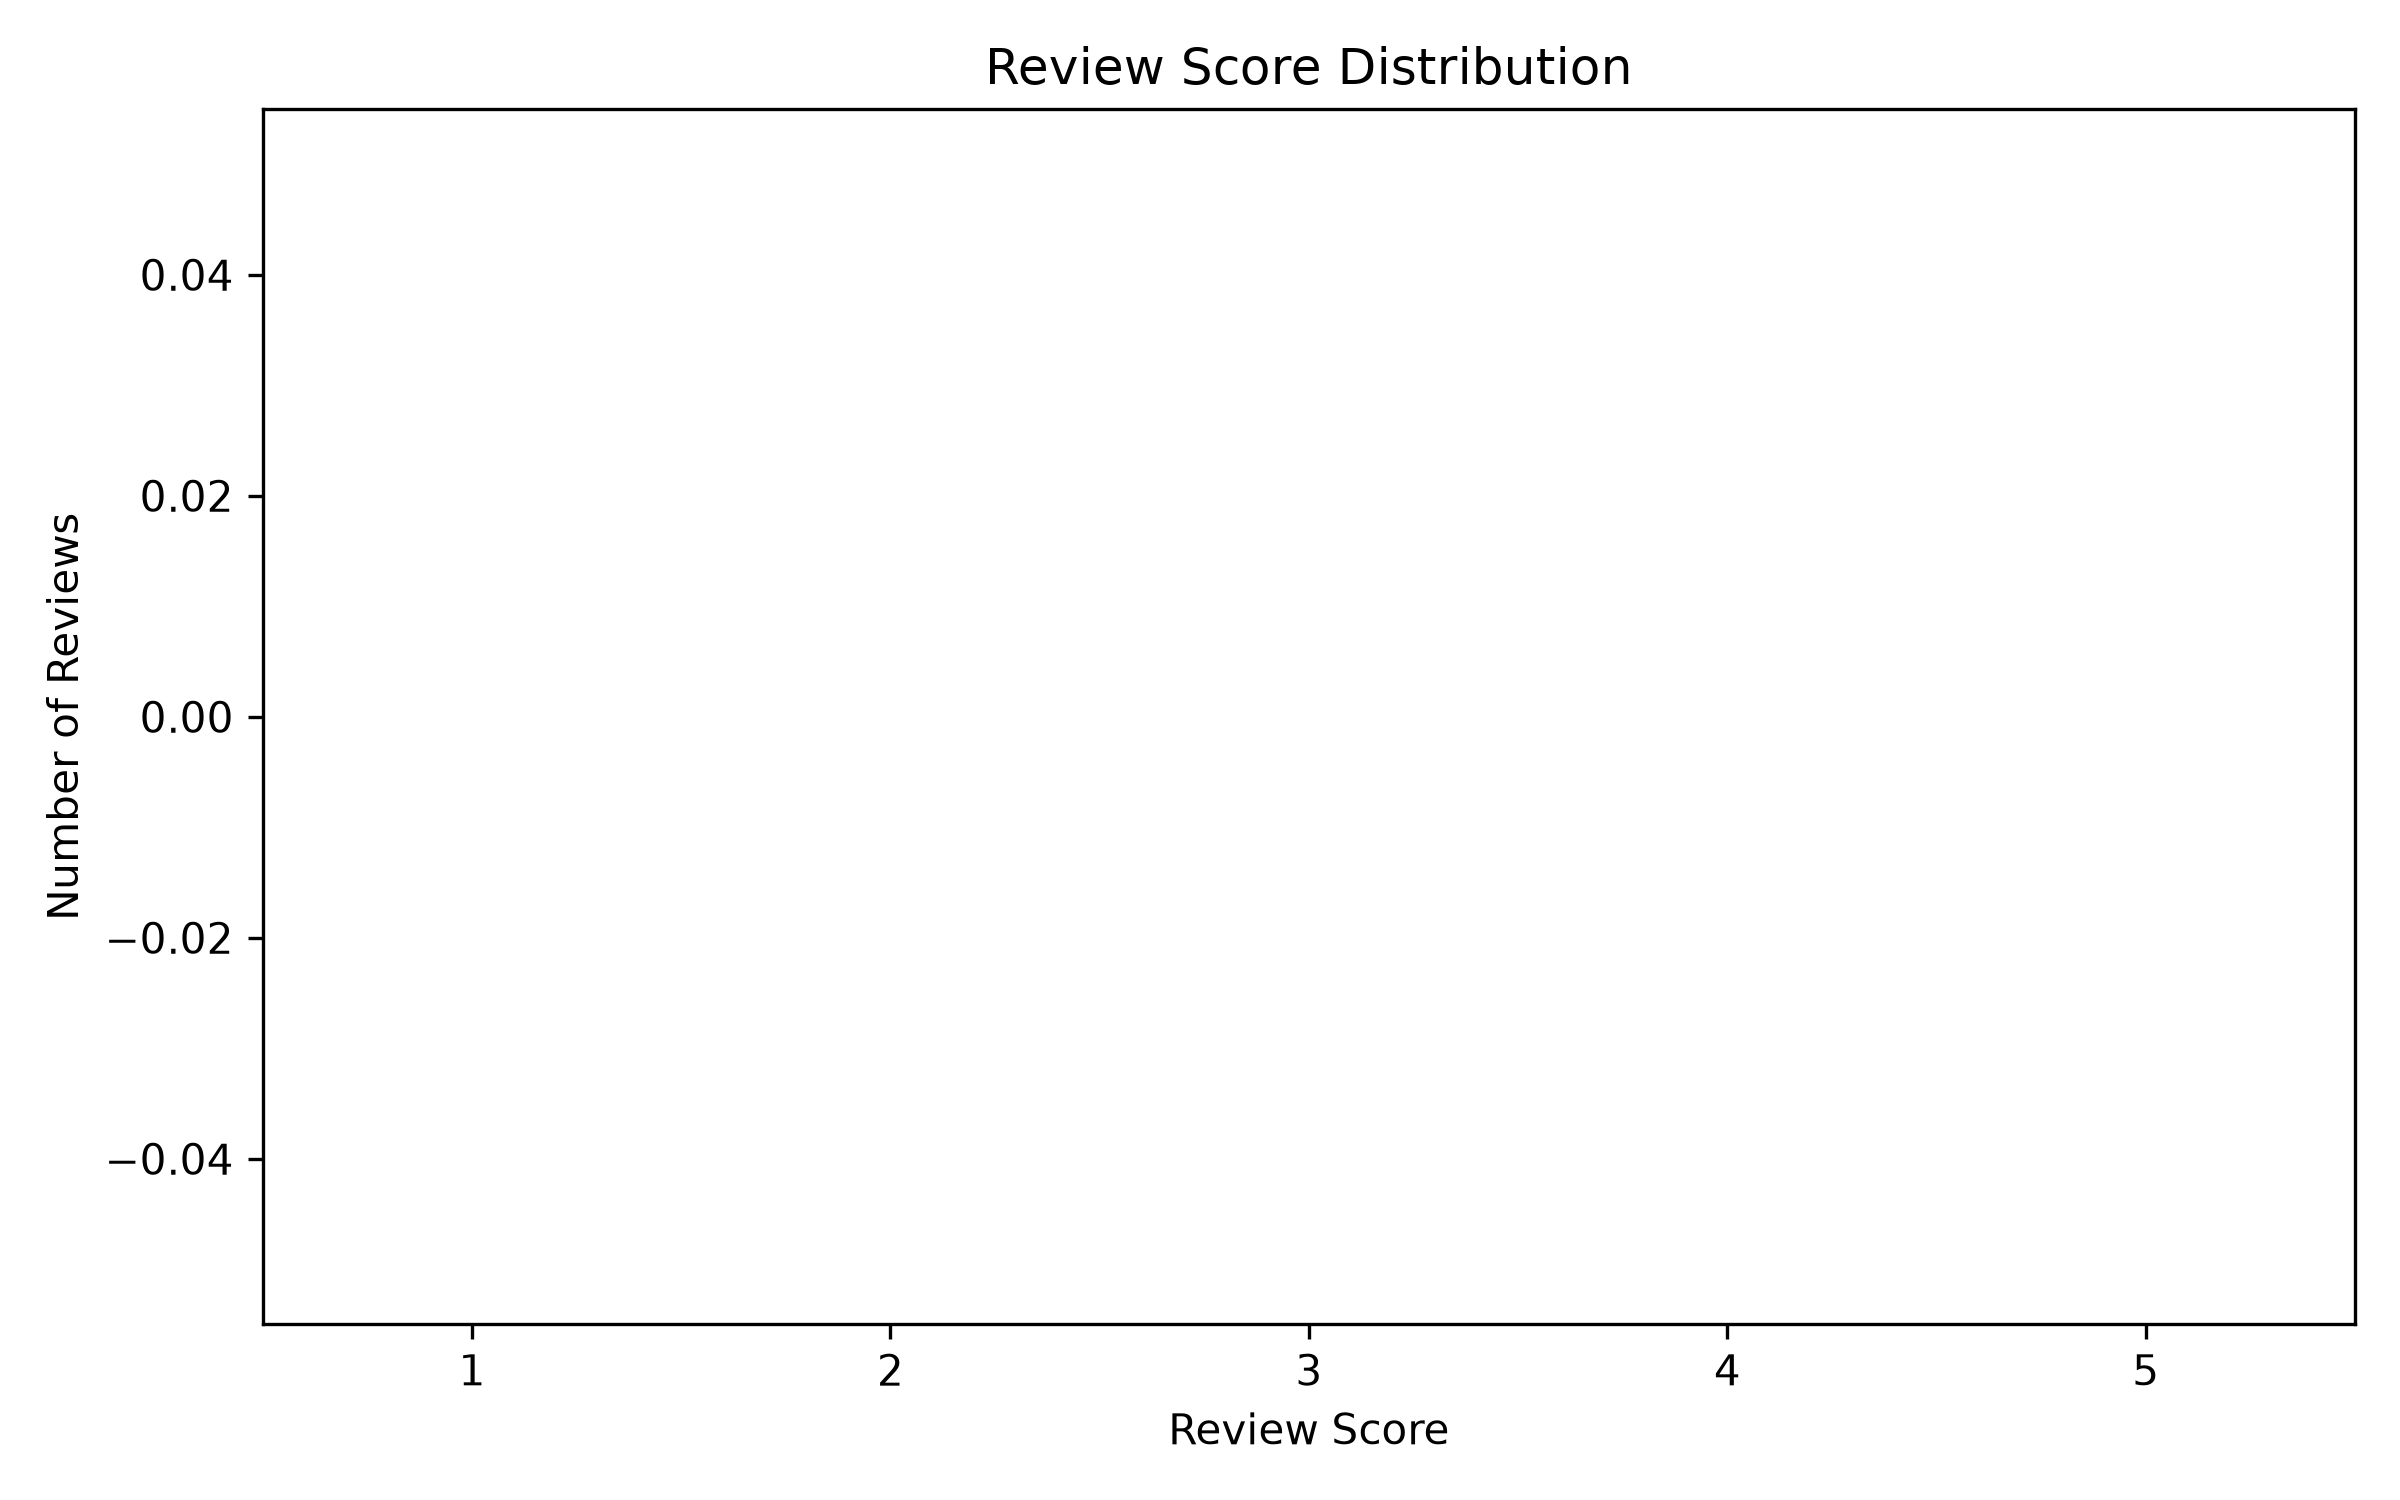
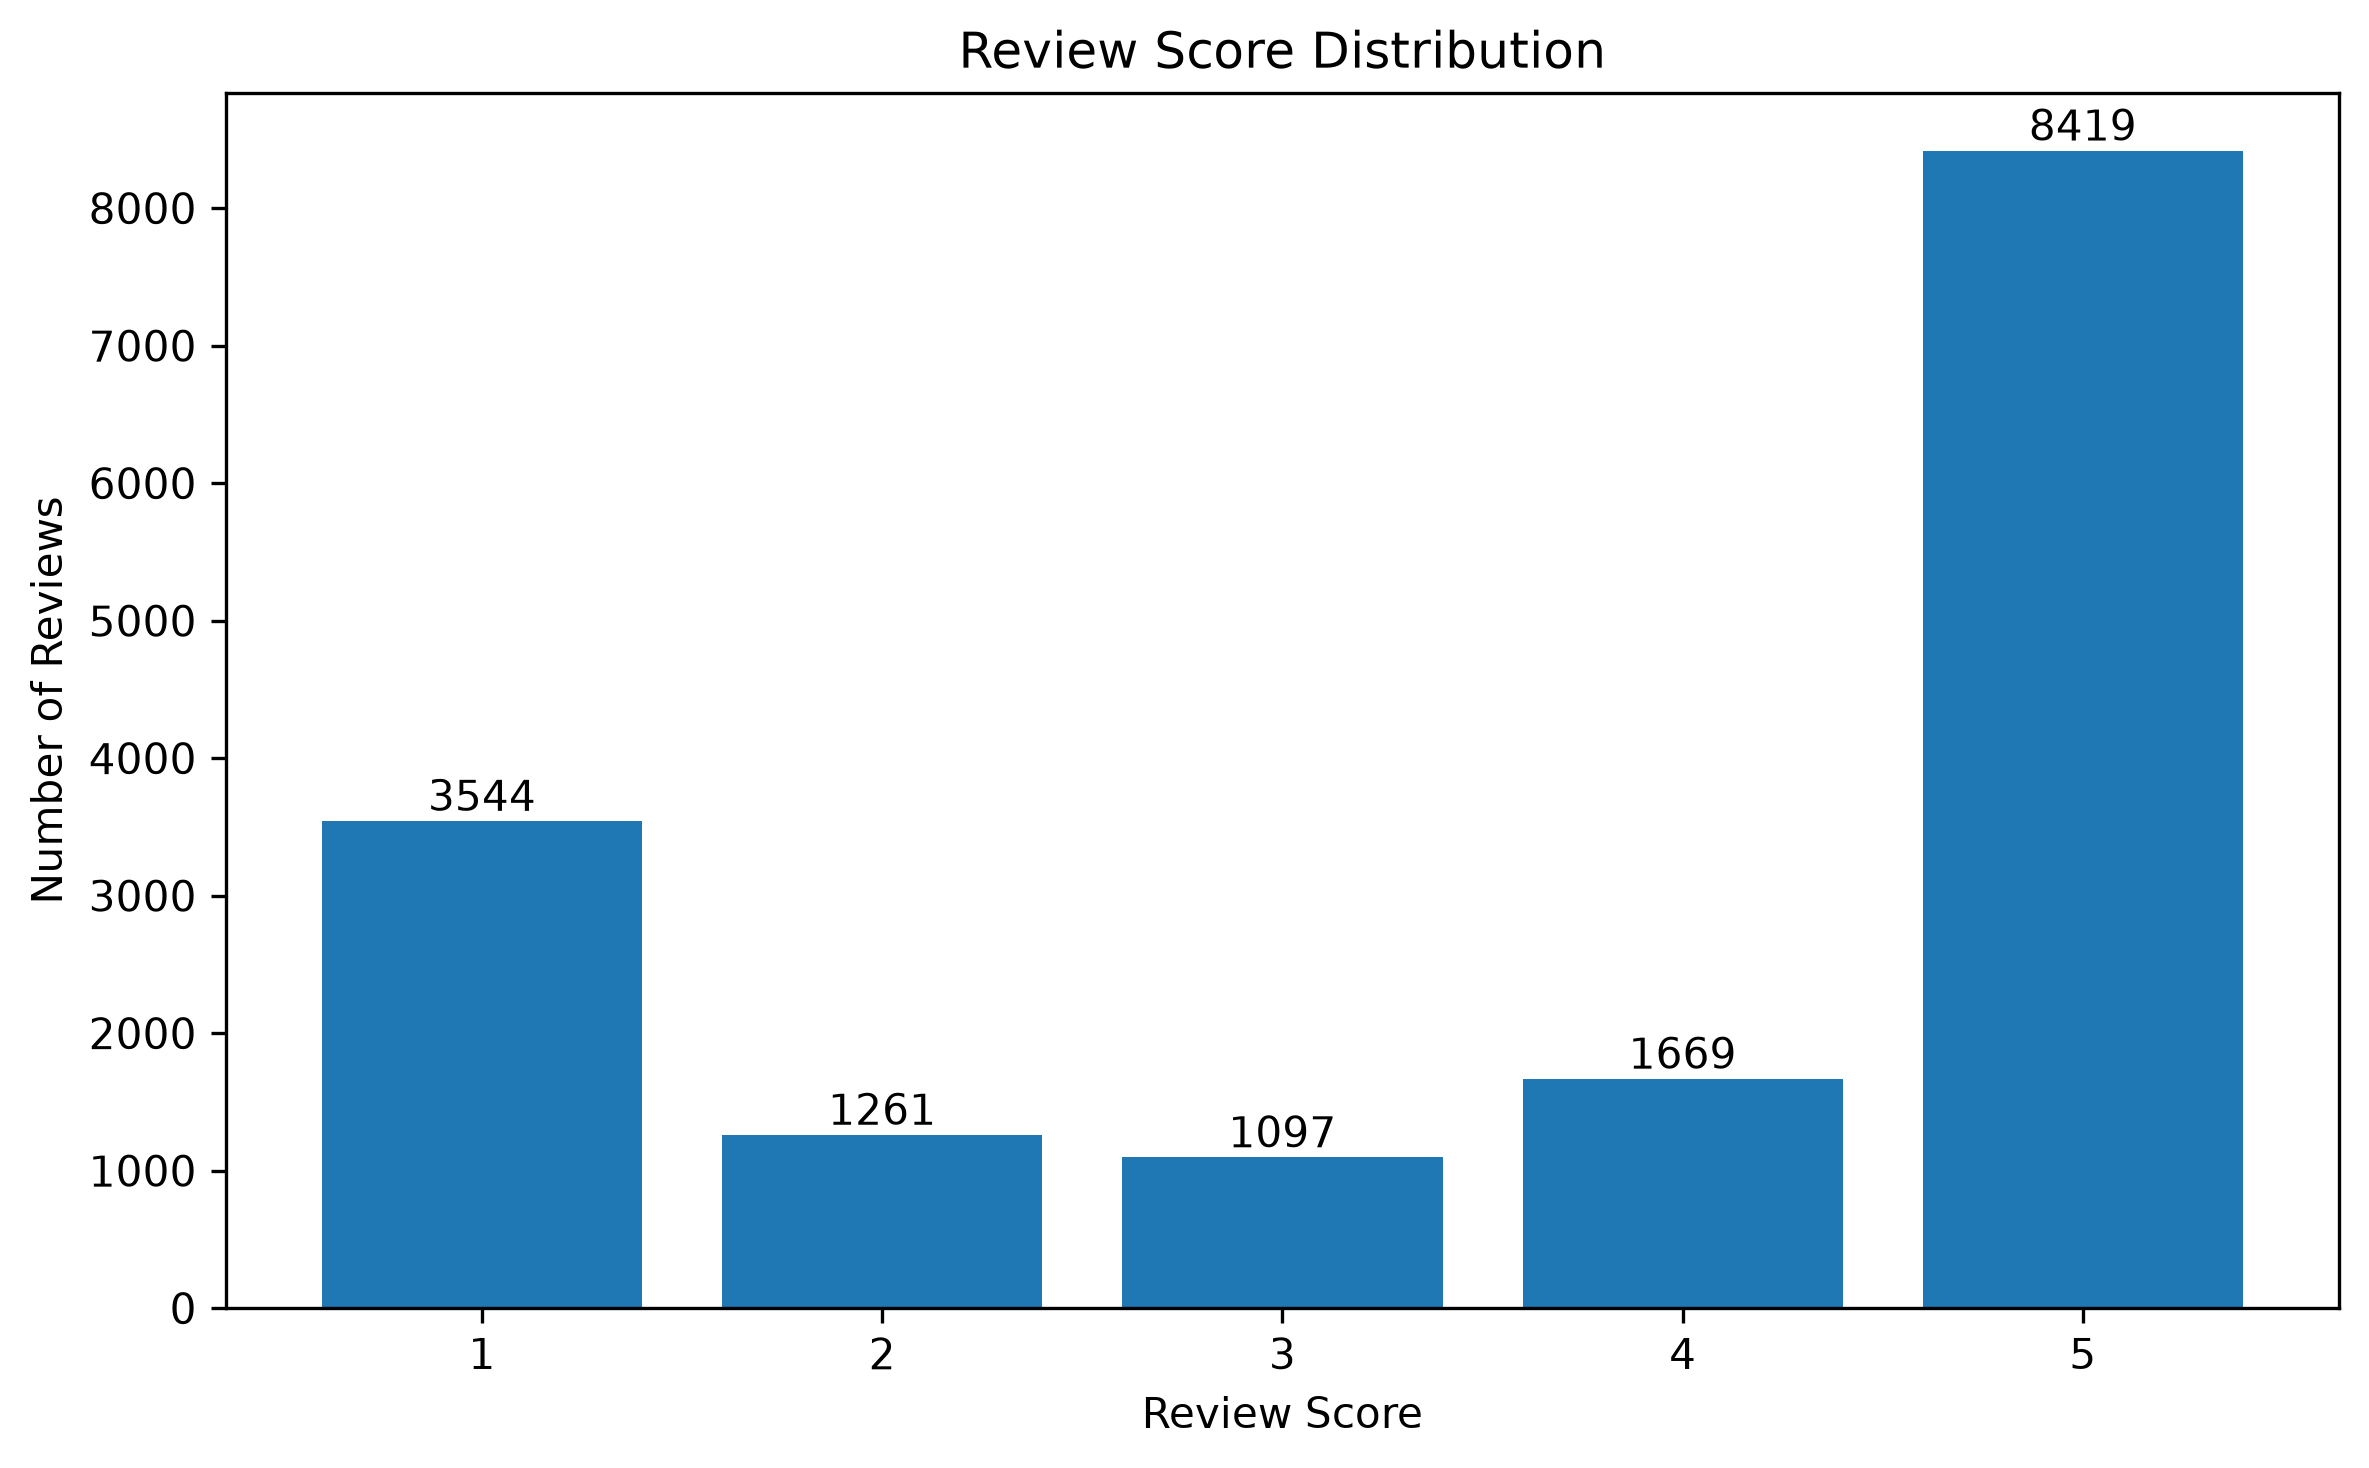
Update Task 4 sentiment analysis

Changed region(s): [[0.0, 0.0, 0.9996, 0.9809]]

diff --git a/sentiment_analysis.py b/sentiment_analysis.py
@@ -1,4 +1,5 @@
 import os
+
 import pandas as pd
 import matplotlib.pyplot as plt
 import seaborn as sns
@@ -73,10 +74,18 @@ df = df.dropna(subset=["cleaned_review"]).copy()
 # Convert review text to string
 df["cleaned_review"] = df["cleaned_review"].astype(str)
 
+# Make sure review score is numeric
+df["review_score"] = pd.to_numeric(
+    df["review_score"],
+    errors="coerce"
+)
+
+# Remove rows where review score is missing
+df = df.dropna(subset=["review_score"]).copy()
+
 
 print("\nDataset Shape After Removing Missing Reviews:")
 print(df.shape)
-
 
 print("\nMissing Values After Cleaning:")
 print(df.isnull().sum())
@@ -123,7 +132,11 @@ print("\n" + "=" * 60)
 print("REVIEW SCORE DISTRIBUTION")
 print("=" * 60)
 
-score_counts = df["review_score"].value_counts().sort_index()
+score_counts = (
+    df["review_score"]
+    .value_counts()
+    .sort_index()
+)
 
 print("\nReview Score Distribution:")
 print(score_counts)
@@ -137,7 +150,10 @@ print("\n" + "=" * 60)
 print("REVIEW LENGTH ANALYSIS")
 print("=" * 60)
 
-avg_length = df.groupby("sentiments")["cleaned_review_length"].mean()
+avg_length = (
+    df.groupby("sentiments")["cleaned_review_length"]
+    .mean()
+)
 
 print("\nAverage Review Length by Sentiment:")
 print(avg_length)
@@ -151,7 +167,10 @@ print("\n" + "=" * 60)
 print("REVIEW SCORE BY SENTIMENT")
 print("=" * 60)
 
-avg_score = df.groupby("sentiments")["review_score"].mean()
+avg_score = (
+    df.groupby("sentiments")["review_score"]
+    .mean()
+)
 
 print("\nAverage Review Score by Sentiment:")
 print(avg_score)
@@ -200,7 +219,10 @@ df["vader_sentiment"] = df["vader_score"].apply(
 # 12. VADER SENTIMENT DISTRIBUTION
 # ============================================================
 
-vader_counts = df["vader_sentiment"].value_counts()
+vader_counts = (
+    df["vader_sentiment"]
+    .value_counts()
+)
 
 print("\nVADER Sentiment Distribution:")
 print(vader_counts)
@@ -267,10 +289,18 @@ os.makedirs("charts", exist_ok=True)
 
 plt.figure(figsize=(8, 5))
 
-sns.countplot(
-    data=df,
-    x="sentiments",
-    order=["negative", "neutral", "positive"]
+sentiment_plot_counts = (
+    df["sentiments"]
+    .value_counts()
+    .reindex(
+        ["negative", "neutral", "positive"],
+        fill_value=0
+    )
+)
+
+plt.bar(
+    sentiment_plot_counts.index,
+    sentiment_plot_counts.values
 )
 
 plt.title("Original Sentiment Distribution")
@@ -281,7 +311,8 @@ plt.tight_layout()
 
 plt.savefig(
     "charts/sentiment_distribution.png",
-    dpi=300
+    dpi=300,
+    bbox_inches="tight"
 )
 
 plt.close()
@@ -293,21 +324,37 @@ plt.close()
 
 plt.figure(figsize=(8, 5))
 
-sns.countplot(
-    data=df,
-    x="review_score",
-    order=[1, 2, 3, 4, 5]
+score_plot_counts = (
+    df["review_score"]
+    .value_counts()
+    .reindex([1, 2, 3, 4, 5], fill_value=0)
+)
+
+plt.bar(
+    score_plot_counts.index.astype(str),
+    score_plot_counts.values
 )
 
 plt.title("Review Score Distribution")
 plt.xlabel("Review Score")
 plt.ylabel("Number of Reviews")
 
+# Add values above bars
+for i, value in enumerate(score_plot_counts.values):
+    plt.text(
+        i,
+        value,
+        str(value),
+        ha="center",
+        va="bottom"
+    )
+
 plt.tight_layout()
 
 plt.savefig(
     "charts/review_score_distribution.png",
-    dpi=300
+    dpi=300,
+    bbox_inches="tight"
 )
 
 plt.close()
@@ -319,21 +366,40 @@ plt.close()
 
 plt.figure(figsize=(8, 5))
 
-sns.countplot(
-    data=df,
-    x="vader_sentiment",
-    order=["negative", "neutral", "positive"]
+vader_plot_counts = (
+    df["vader_sentiment"]
+    .value_counts()
+    .reindex(
+        ["negative", "neutral", "positive"],
+        fill_value=0
+    )
+)
+
+plt.bar(
+    vader_plot_counts.index,
+    vader_plot_counts.values
 )
 
 plt.title("VADER Sentiment Distribution")
 plt.xlabel("VADER Sentiment")
 plt.ylabel("Number of Reviews")
 
+# Add values above bars
+for i, value in enumerate(vader_plot_counts.values):
+    plt.text(
+        i,
+        value,
+        str(value),
+        ha="center",
+        va="bottom"
+    )
+
 plt.tight_layout()
 
 plt.savefig(
     "charts/vader_sentiment_distribution.png",
-    dpi=300
+    dpi=300,
+    bbox_inches="tight"
 )
 
 plt.close()
@@ -345,10 +411,9 @@ plt.close()
 
 plt.figure(figsize=(8, 5))
 
-sns.histplot(
+plt.hist(
     df["vader_score"],
-    bins=30,
-    kde=True
+    bins=30
 )
 
 plt.title("VADER Sentiment Score Distribution")
@@ -359,7 +424,8 @@ plt.tight_layout()
 
 plt.savefig(
     "charts/vader_score_distribution.png",
-    dpi=300
+    dpi=300,
+    bbox_inches="tight"
 )
 
 plt.close()
@@ -371,22 +437,39 @@ plt.close()
 
 plt.figure(figsize=(8, 5))
 
-sns.barplot(
-    data=df,
-    x="sentiments",
-    y="review_score",
-    order=["negative", "neutral", "positive"]
+avg_score_plot = (
+    df.groupby("sentiments")["review_score"]
+    .mean()
+    .reindex(
+        ["negative", "neutral", "positive"]
+    )
+)
+
+plt.bar(
+    avg_score_plot.index,
+    avg_score_plot.values
 )
 
 plt.title("Average Review Score by Sentiment")
 plt.xlabel("Sentiment")
 plt.ylabel("Average Review Score")
 
+# Add values above bars
+for i, value in enumerate(avg_score_plot.values):
+    plt.text(
+        i,
+        value,
+        f"{value:.2f}",
+        ha="center",
+        va="bottom"
+    )
+
 plt.tight_layout()
 
 plt.savefig(
     "charts/average_score_by_sentiment.png",
-    dpi=300
+    dpi=300,
+    bbox_inches="tight"
 )
 
 plt.close()
@@ -398,22 +481,39 @@ plt.close()
 
 plt.figure(figsize=(8, 5))
 
-sns.barplot(
-    data=df,
-    x="sentiments",
-    y="cleaned_review_length",
-    order=["negative", "neutral", "positive"]
+avg_length_plot = (
+    df.groupby("sentiments")["cleaned_review_length"]
+    .mean()
+    .reindex(
+        ["negative", "neutral", "positive"]
+    )
+)
+
+plt.bar(
+    avg_length_plot.index,
+    avg_length_plot.values
 )
 
 plt.title("Average Review Length by Sentiment")
 plt.xlabel("Sentiment")
 plt.ylabel("Average Review Length")
 
+# Add values above bars
+for i, value in enumerate(avg_length_plot.values):
+    plt.text(
+        i,
+        value,
+        f"{value:.2f}",
+        ha="center",
+        va="bottom"
+    )
+
 plt.tight_layout()
 
 plt.savefig(
     "charts/average_review_length_by_sentiment.png",
-    dpi=300
+    dpi=300,
+    bbox_inches="tight"
 )
 
 plt.close()
@@ -449,7 +549,8 @@ plt.tight_layout()
 
 plt.savefig(
     "charts/sentiment_comparison.png",
-    dpi=300
+    dpi=300,
+    bbox_inches="tight"
 )
 
 plt.close()
@@ -502,6 +603,14 @@ print(df["vader_sentiment"].value_counts())
 print(
     "\nAverage VADER Score:",
     round(df["vader_score"].mean(), 4)
+)
+
+
+print("\nReview Score Counts:")
+print(
+    df["review_score"]
+    .value_counts()
+    .sort_index()
 )
 
 
